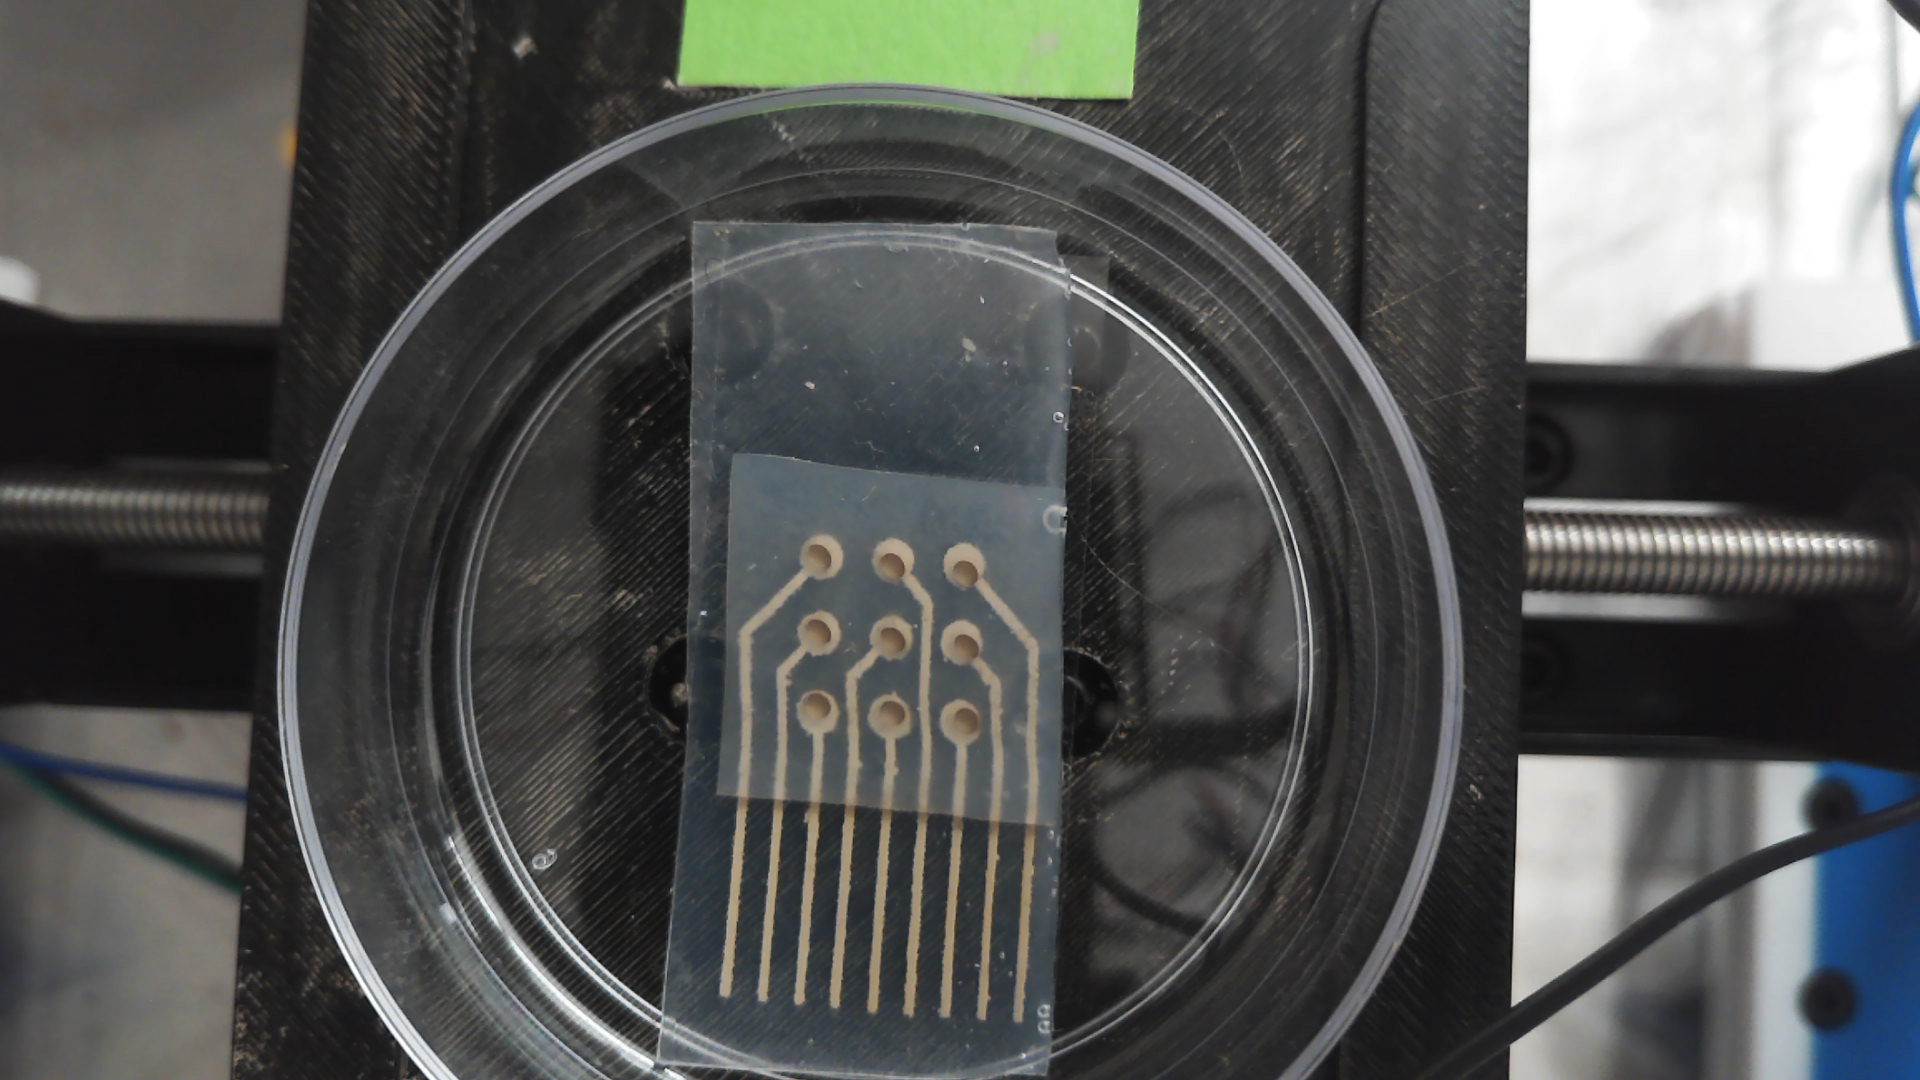
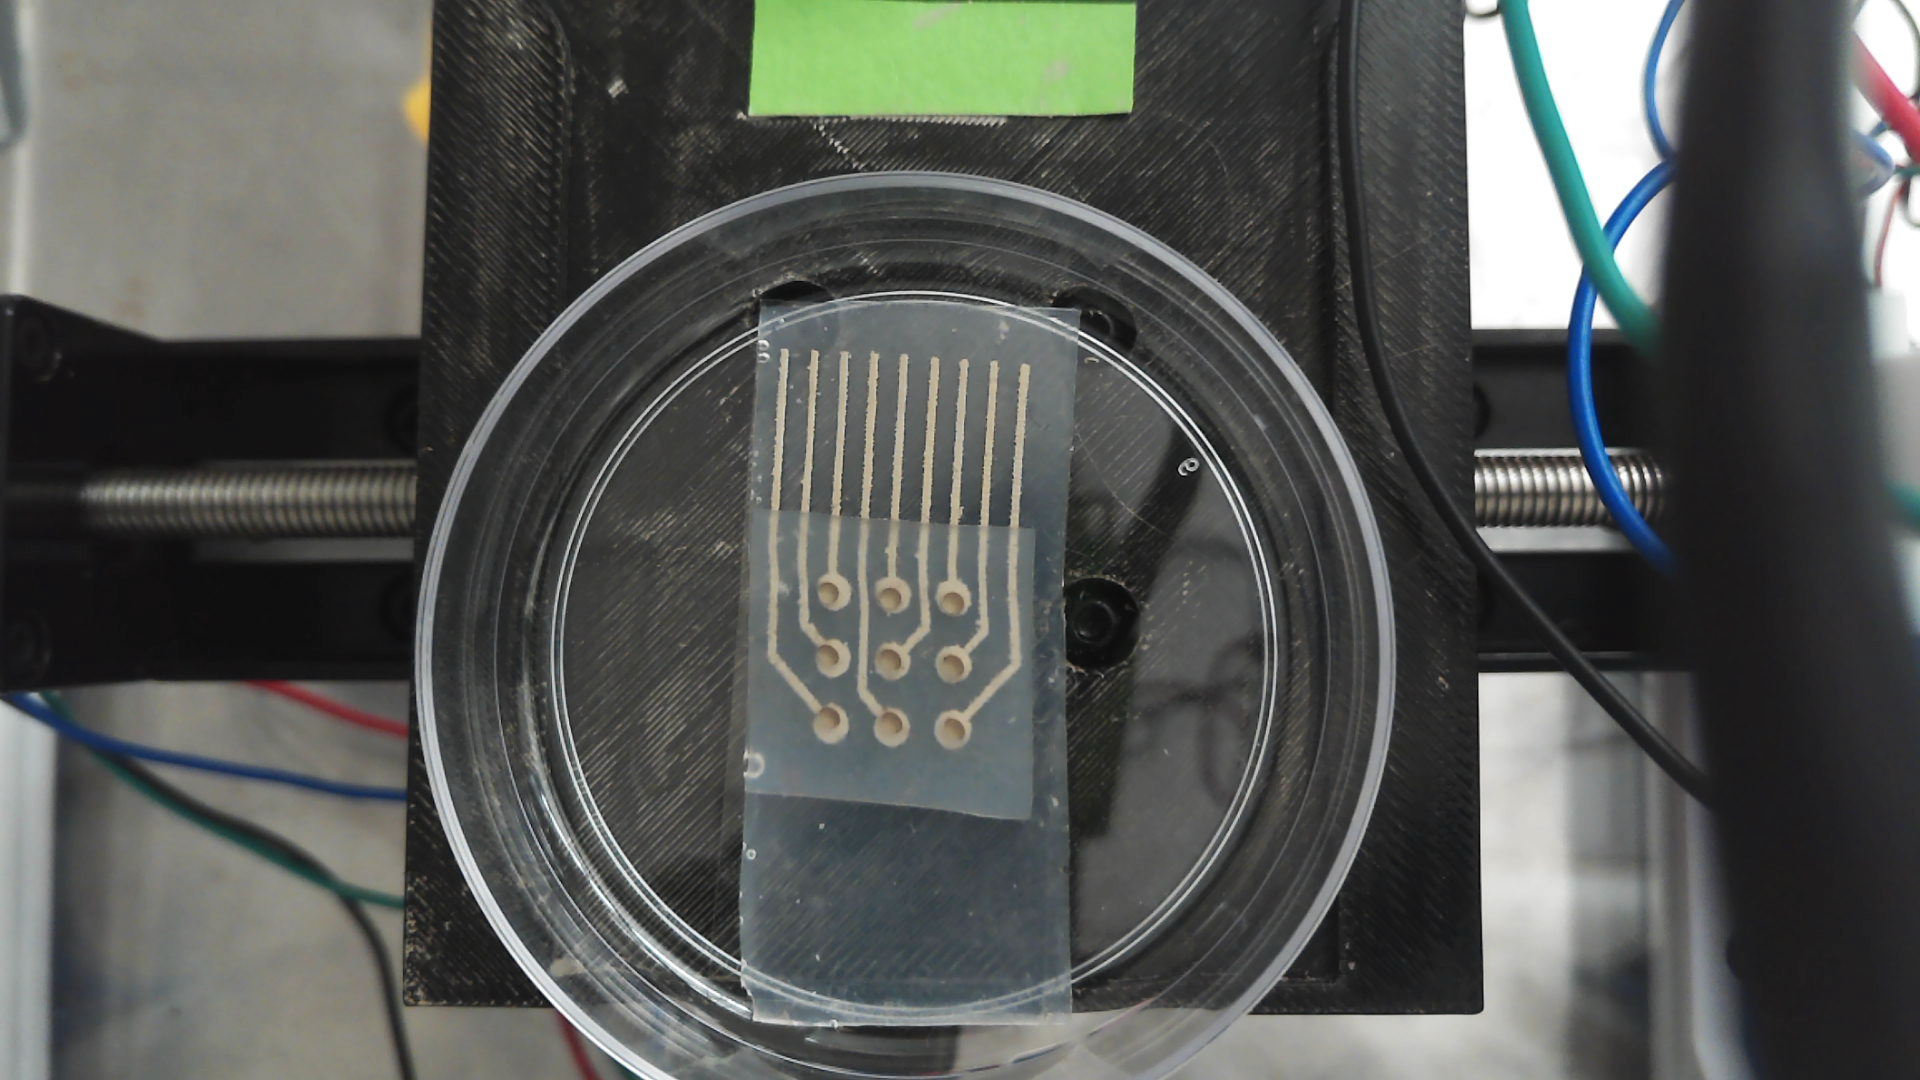
added movement and extrusion

diff --git a/gui2.py b/gui2.py
@@ -9,6 +9,7 @@ import livefeed_measurements
 import numpy as np
 from sendPython import sendToPoints
 import serial.tools.list_ports
+import time
 
 def list_serial_ports():
     """Returns a list of available serial port device names."""
@@ -100,13 +101,13 @@ class DashboardApp(ctk.CTk):
             command=self.find_top_right,
         ).pack(fill="x", padx=20, pady=(0, 12))
 
-        # ctk.CTkButton(
-        #     self.sidebar,
-        #     text="Move to Points",
-        #     height=40,
-        #     fg_color="#23272e",
-        #     command=self.find_top_right,
-        # ).pack(fill="x", padx=20, pady=(0, 12))
+        ctk.CTkButton(
+            self.sidebar,
+            text="Extrude All Points",
+            height=40,
+            fg_color="#23272e",
+            command=self.extrude_points,
+        ).pack(fill="x", padx=20, pady=(0, 12))
 
         # Main camera area (fills almost all the right side)
         self.camera_panel = ctk.CTkFrame(
@@ -158,7 +159,7 @@ class DashboardApp(ctk.CTk):
             else:
                 self.show_toast("Error running target.py!", duration=3000)
                 print("Error running target.py:", result.stderr)
-                self.centers = []
+                self.centers = [                                                                                                                                                                                                                                                                                                                                                                                                                        ]
         # Run in a thread to avoid freezing GUI
         threading.Thread(target=calibration_task, daemon=True).start()
 
@@ -236,12 +237,34 @@ class DashboardApp(ctk.CTk):
             if i[1]<minimum[1]: 
                 minimum = i 
         
-        num_min = np.array(minimum)
+        num_min = np.array(minimum, dtype=float)
         image_center = np.array(self.imageCenter)
         vect = num_min-image_center
         vect_normalized = vect*self.calavg
+
+        self.displacements = []
+        for holes in self.centers:
+            coord = np.array(holes, dtype=float)
+            dist = num_min - coord
+            dist*=self.calavg
+            dist[0] *= -1
+            #dist[1]*= -1
+
+            self.displacements.append(dist)
+            #print(dist)
+
+
+        print(self.displacements)
         print(vect, vect_normalized)
-        sendToPoints(vect_normalized[0], -1*vect_normalized[1])
+        sendToPoints(x_center = vect_normalized[0], y_center = -1*vect_normalized[1], homing=True)
+
+    def extrude_points(self):
+        #adjust Z-axis HERE FIRST!!! <------------------
+        print("hello!!!")
+        print(len(self.displacements))
+
+        toPoints = self.displacements
+        sendToPoints(points = toPoints)
 
     def toggle_mode(self):
         mode = ctk.get_appearance_mode()

diff --git a/sendPython.py b/sendPython.py
@@ -6,7 +6,7 @@ PORT = '/dev/tty.usbmodem3446395A32311'  # <-- Replace with your port
 BAUD = 115200                      # Or 250000 depending on your firmware
 TIMEOUT = 1
 
-def sendToPoints(x_center, y_center):
+def sendToPoints(x_center = 0, y_center = 0, points = [], z_dist = 0, homing = False, extrusion = False):
     # === CONNECT TO BOARD ===
     print("Connecting to {}...".format(PORT))
     ser = serial.Serial(PORT, BAUD, timeout=TIMEOUT)
@@ -36,17 +36,47 @@ def sendToPoints(x_center, y_center):
     # send_gcode("G1 C{} F100".format(clamp_distance))   # Move X to the origin's point
     # send_gcode("G92 C0")   # Home 
 
-    X_origin = x_center
-    Y_origin = y_center
+    if(extrusion):
+        send_gcode("G91")
+        send_gcode("G1 B0.33 F200")
+        time.sleep(1)
+        send_gcode("G1 B-0.2 F300")
+        send_gcode("G1 Z0.2 F100")
 
-    send_gcode("G91")           # Relative positioning
-    send_gcode("G1 X{} F200".format(X_origin))   # Move X to the origin's point
-    send_gcode("G1 Y{} F200".format(Y_origin))  #Move Y to the origin's point
+        for i in range (10):
+            send_gcode("G3 X0 Y0 I{} J0 F200".format(0.2+i*0.03))
+            send_gcode("G1 Z0.15 F100")
+        time.sleep(2)
+        send_gcode("G1 Z3 F100")
+        return None
 
-    send_gcode("G92 X0 Y0") #home x and y coordinates at the new origin
+    if(homing):
+        send_gcode("G91")           # Relative positioning
+    else:
+        send_gcode("G92 X0 Y0")
+        send_gcode("G90")
 
+    if(x_center != 0 and y_center != 0):
+        send_gcode("G1 X{} F200".format(x_center))   # Move X to the origin's point
+        send_gcode("G1 Y{} F200".format(y_center))
+
+    for coord in points:
+        send_gcode("G1 X{} F200".format(coord[0]))
+        send_gcode("G1 Y{} F200".format(coord[1]))
+    # X_origin = x_center
+    # Y_origin = y_center
+    # Z_dist = z_dist
+
+    # send_gcode("G1 X{} F200".format(X_origin))   # Move X to the origin's point
+    # send_gcode("G1 Y{} F200".format(Y_origin))  #Move Y to the origin's point
+    # send_gcode("G1 Z{} F200".format(Z_dist)) #Move to specified Z-distance
+    if (homing): #only home if specifically specified
+        send_gcode("G92 X0 Y0") #home x and y coordinates at the new origin
     # === CLEAN UP ===
     ser.close()
     print("Done.")
 
-#sendToPoints(-15, -15)
+# def extrude():
+#     print("Work in Progress!")
+
+sendToPoints(extrusion=True)
